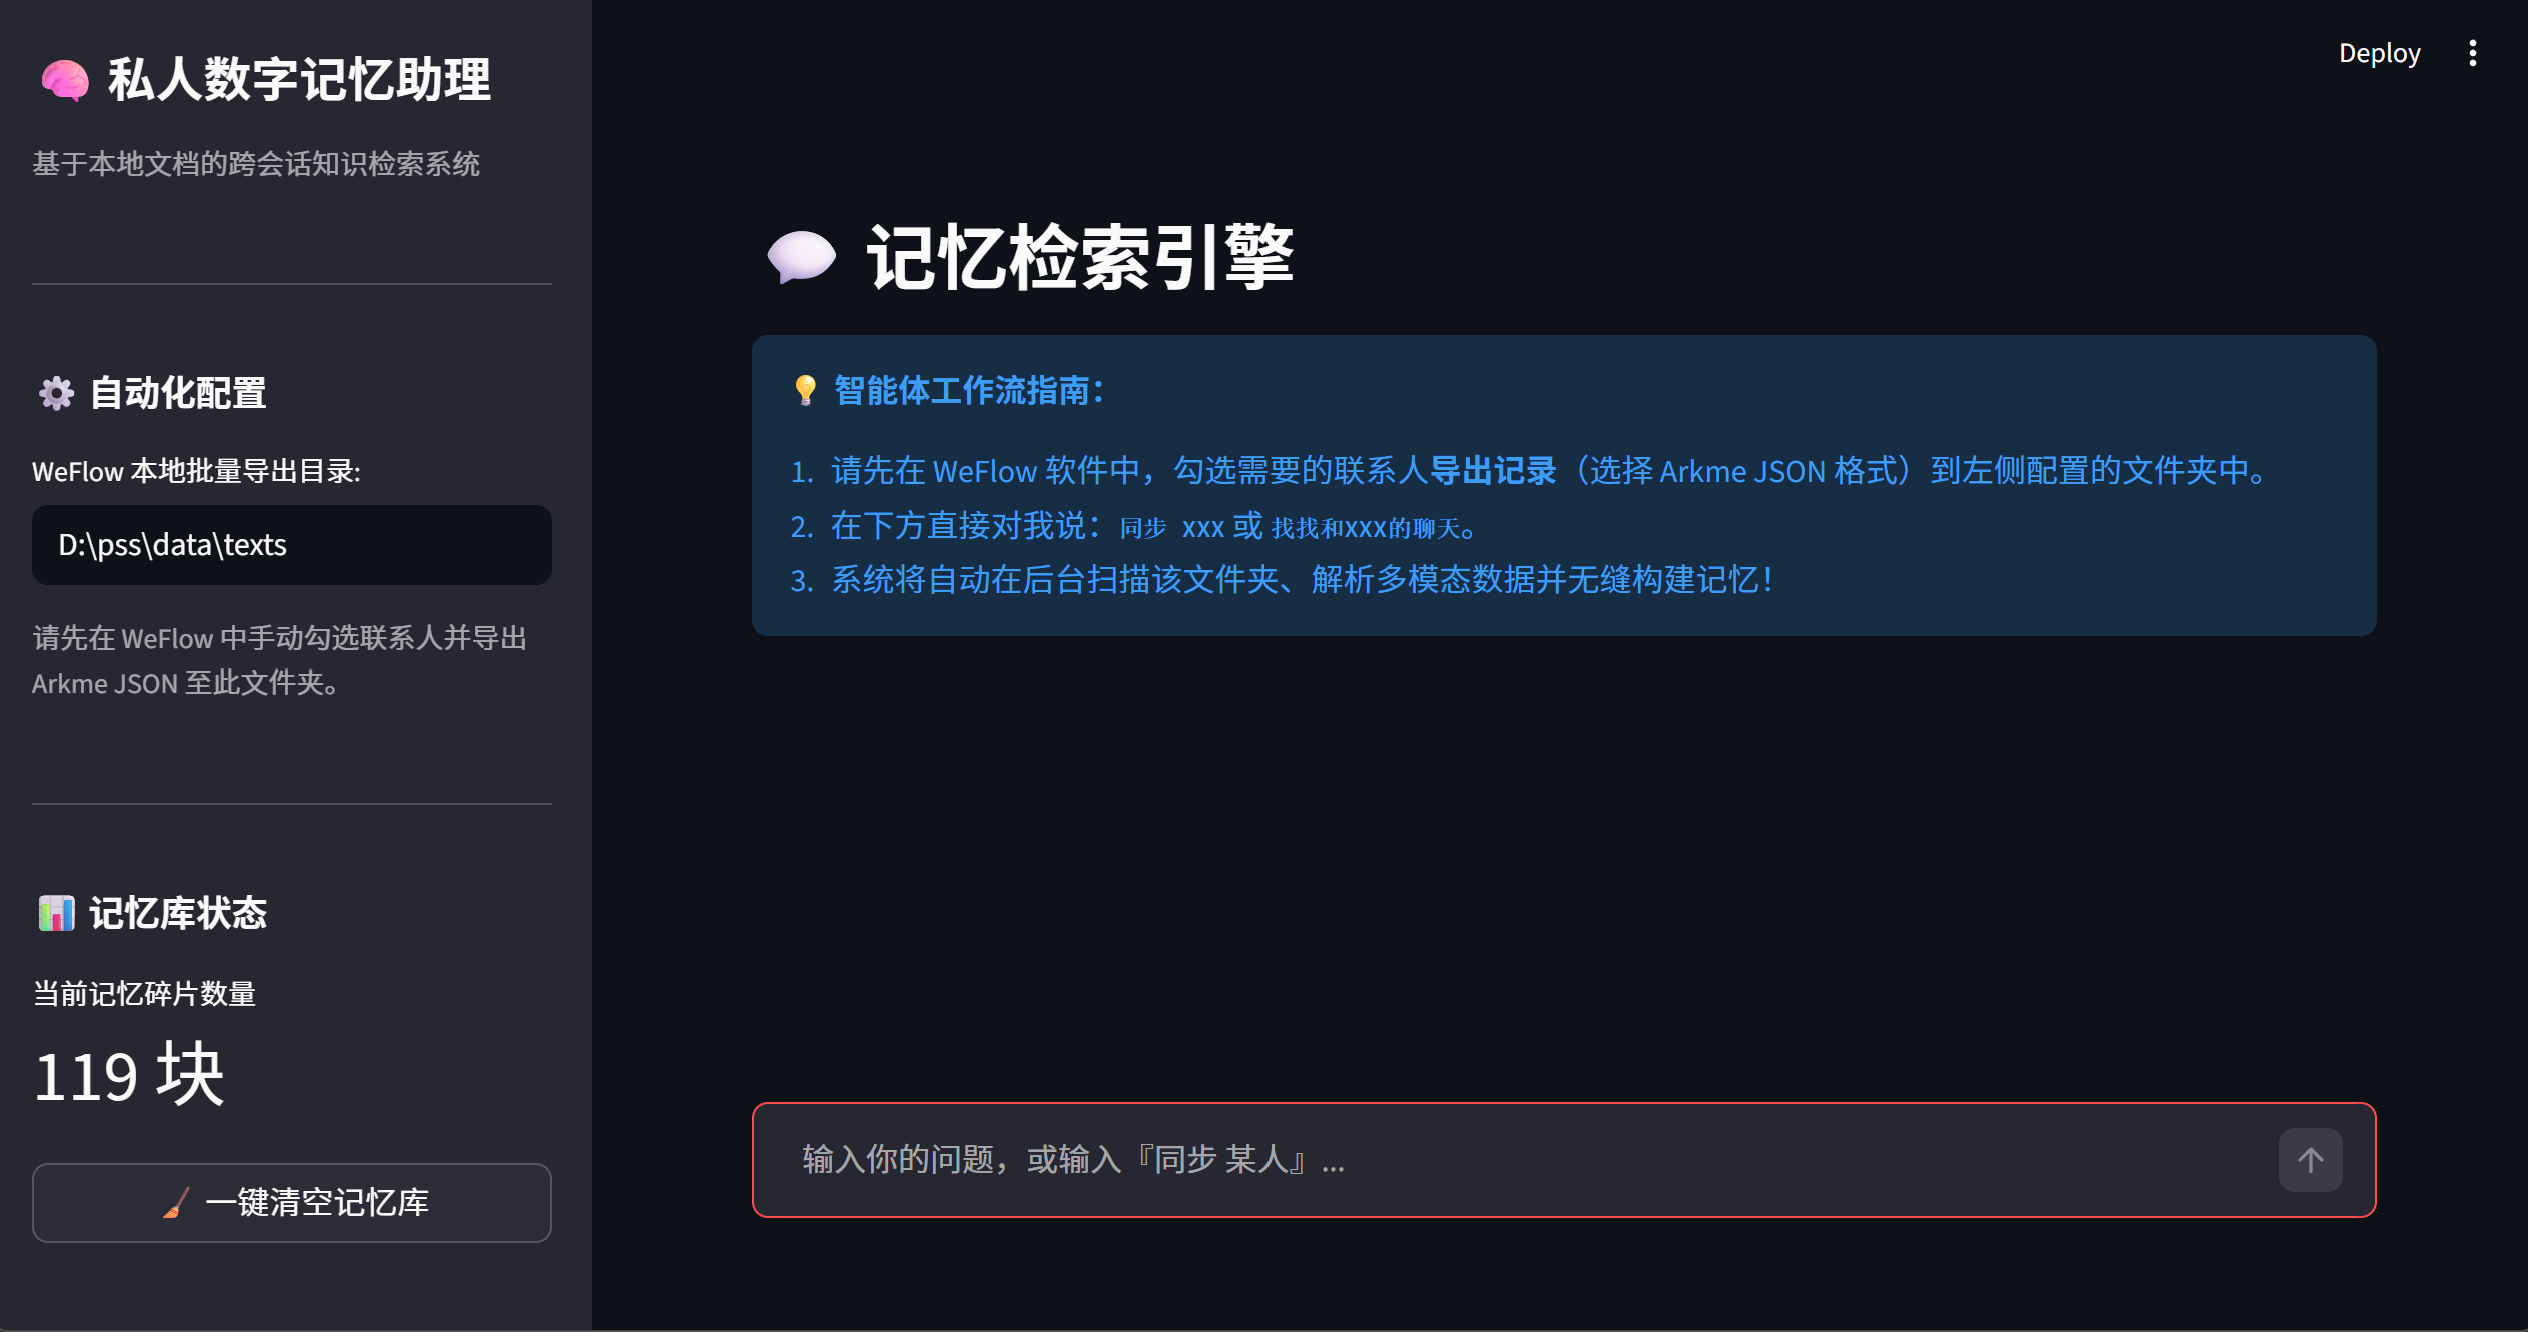
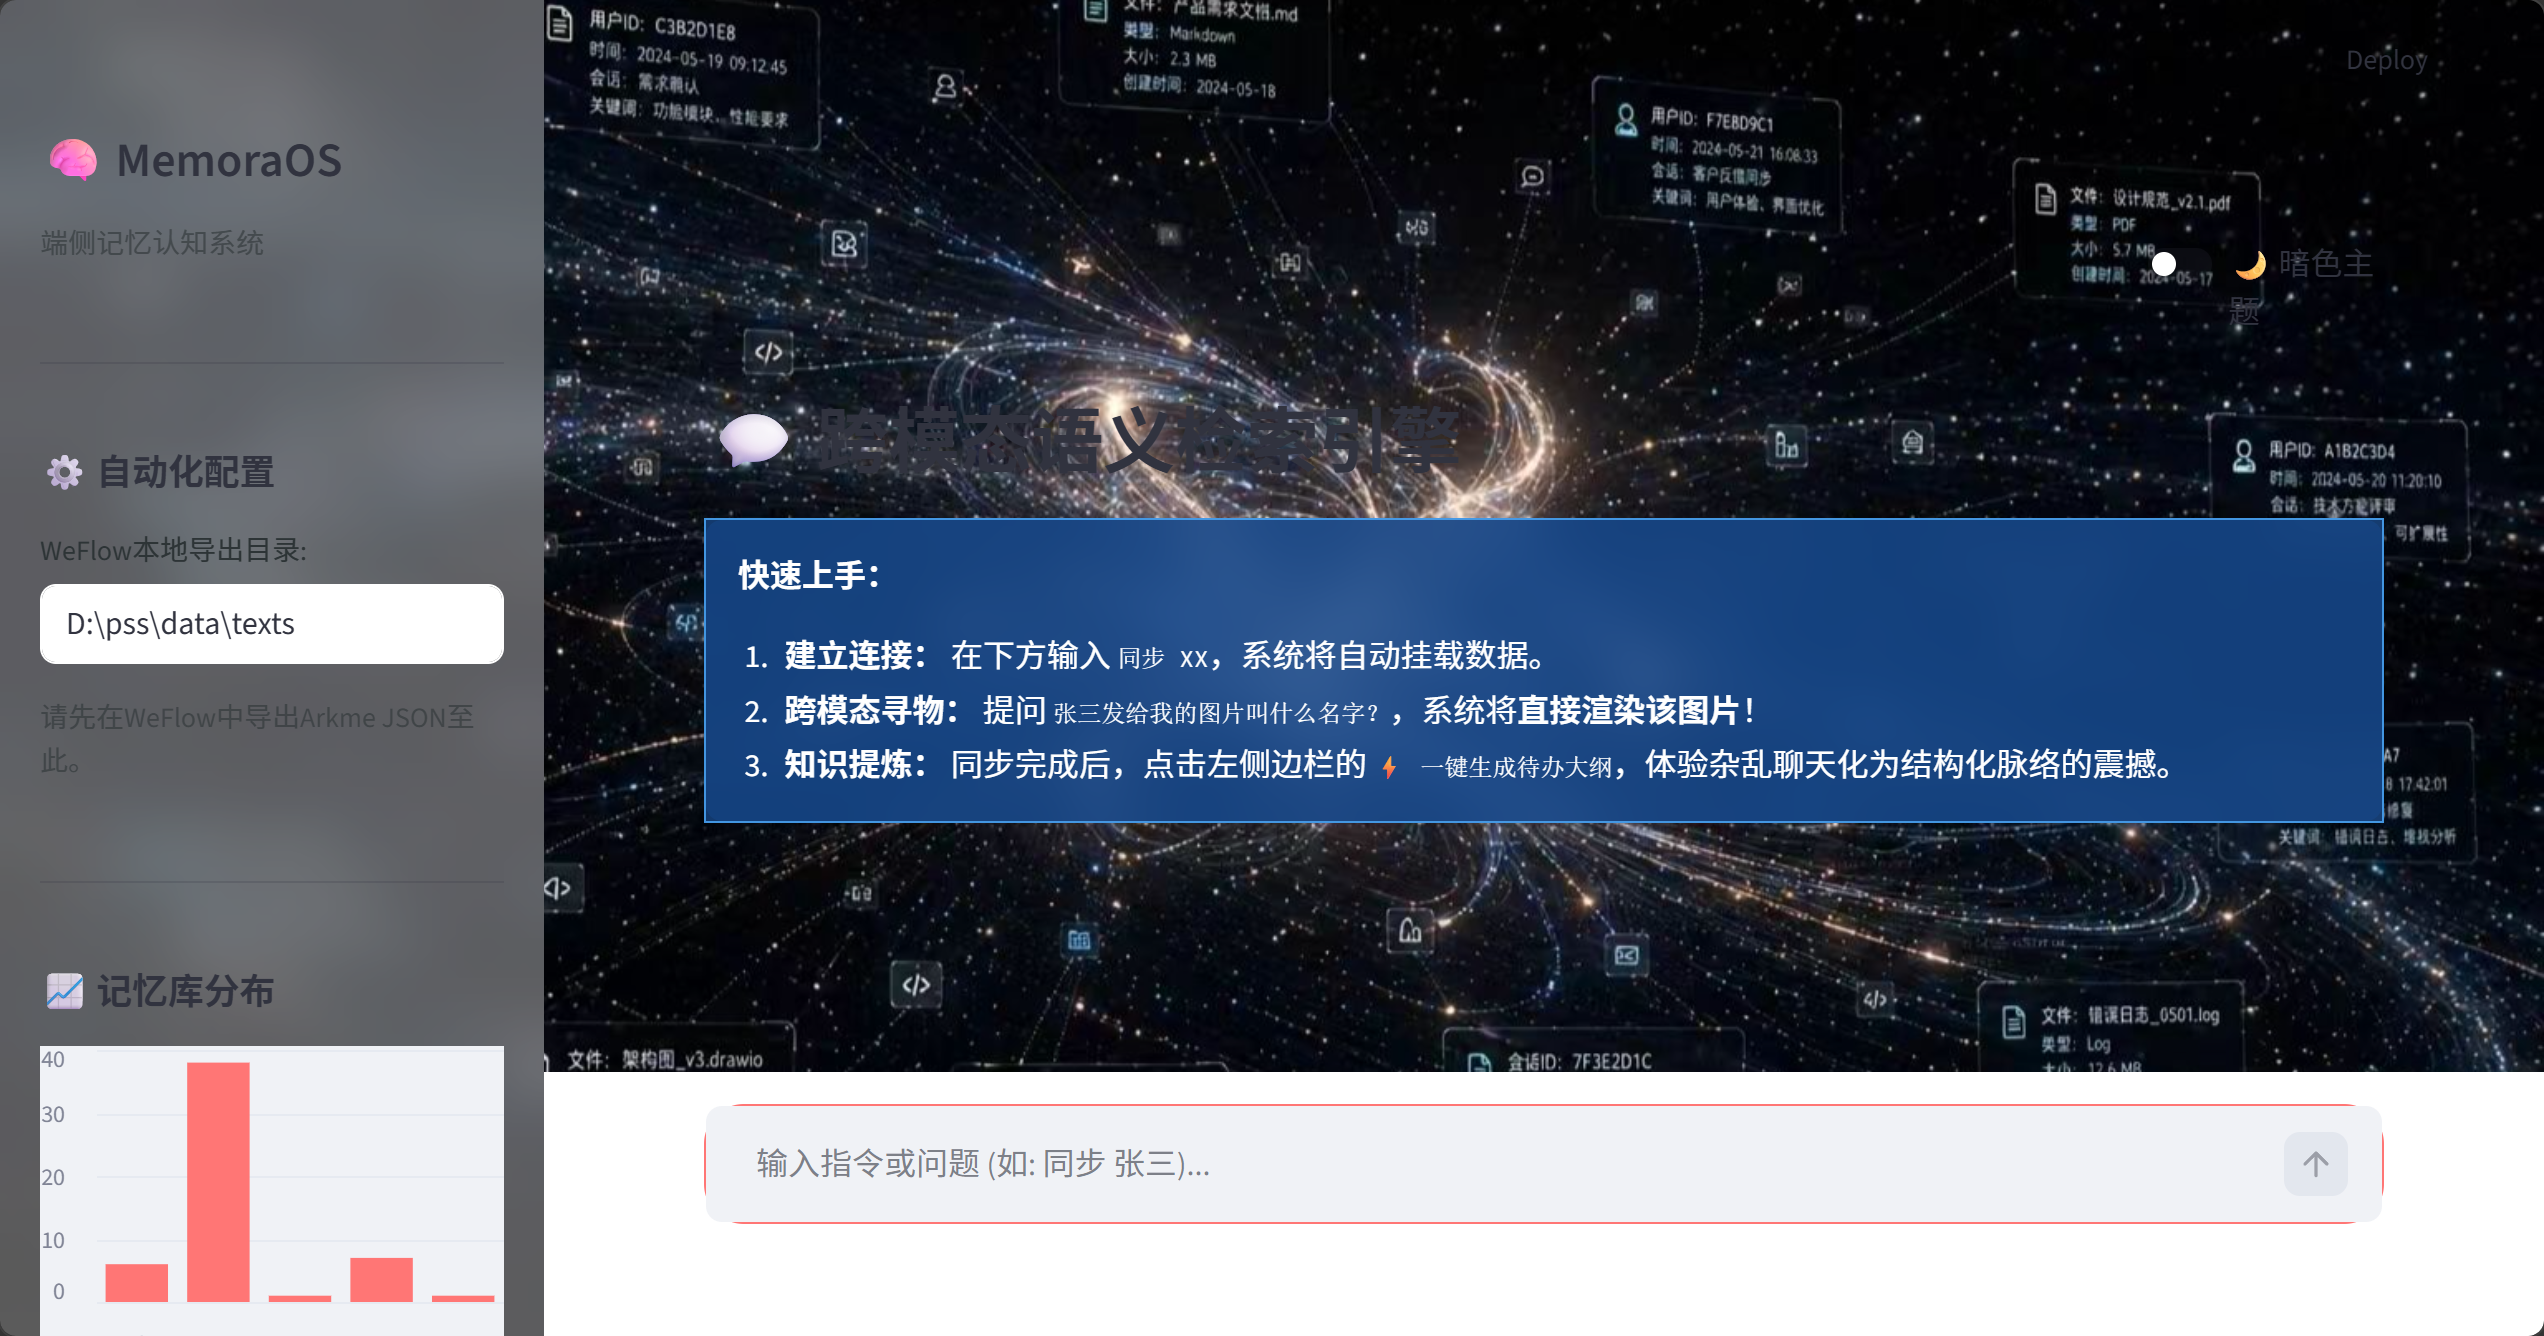
更新README、启动脚本

diff --git a/README.md b/README.md
@@ -1,105 +1,68 @@
-# 私人聊天记录搜索引擎
+<div align="center">
+  <img src="web/background.jpg" alt="MemoraOS Logo" width="200" style="border-radius: 20px;"/>
+  <h1>MemoraOS —— 端侧记忆认知系统</h1>
+  <p>面向法务取证、科研协作与个人数字资产的端侧 AI 审计中枢</p>
 
-基于端侧模型的隐私保护型个人IM记忆增强与智能检索系统
-
-支持：
-- WeFlow API 自动抓取聊天记录
-- 本地 JSON / CSV / DOCX 导入
-- 向量检索
-- Ollama 大模型问答
-- Web UI
-
-![img.png](index.png)
-![search.png](search.png)
----
-
-# 环境要求
-
-- Python 3.10
-- Ollama
-- Windows / Linux / Mac
+  [![Python](https://img.shields.io/badge/Python-3.10+-blue.svg)](https://www.python.org/)
+  [![Ollama](https://img.shields.io/badge/Ollama-Local_LLM-orange.svg)](https://ollama.com/)
+  [![License](https://img.shields.io/badge/License-MIT-green.svg)](LICENSE)
+</div>
 
 ---
 
-# 安装
+## 💡 项目背景与理念
 
-克隆仓库
+在数字化时代，个人与商业机密高度集中于即时通讯软件与本地文档中。传统的云端 AI 知识库（如 ChatGPT、Notion AI）要求用户全量上传隐私数据，存在严重的数据泄露与合规风险。
 
+**MemoraOS** 从“数据主权应归于个人”的核心价值观出发，构建了一套**可断网运行、100%本地计算**的 RAG（检索增强生成）操作系统。通过搭载端侧轻量级大模型（如 Qwen2.5:7b），旨在打破异构数据的格式孤岛，将杂乱的聊天记录化为结构化的知识脉络。
+
+## ✨ 核心亮点 (Core Features)
+
+- 🛡 **绝对的数据主权**：向量嵌入（BGE-m3）、数据库检索（ChromaDB）与大模型推理全链路本地运行，零数据外泄。
+- ⏳ **动态时序防破碎聚类**：引入基于消息时间差（Δt）的动态上下文切片算法，保全多轮对话、问答、协商的逻辑因果链。
+- 👁🗨 **跨模态降维锚定定位**：无需高昂的视觉算力，通过绝对路径标签化，实现“自然语言提问 -> 操作系统级图片/文件秒级定位与渲染”。
+- 🧠 **实体隔离思维链 (Entity-Isolated CoT)**：通过底层强约束提示词，解决轻量级端侧模型在处理多人长对话时极易发生的“角色混淆”与“指代张冠李戴”问题。
+- 📊 **FaaS 场景化模板驱动**：一键将闲聊记录萃取为《法务审前事实梳理（时间轴）》、《科研项目待办脉络》等 Markdown 结构化报告。
+
+## 📸 系统预览
+![index.png](index.png)
+
+|                   跨模态图片渲染                    |             AI 思维链透明展示 & 结构化知识萃取             |
+|:--------------------------------------------:|:--------------------------------------------:|
+| <img src="search.png" width="400" alt="主界面"> | <img src="sort.png" width="400" alt="检索与萃取"> |
+
+## 🚀 快速开始
+
+### 1. 环境准备
+- 操作系统：Windows 10/11 
+- 基础环境：[Python 3.10+](https://www.python.org/) 
+- 本地模型引擎：下载并安装 [Ollama](https://ollama.com/)
+
+### 2. 获取源码
+```bash
 git clone https://github.com/iug-cy/pss.git
-
 cd pss
-
-运行安装脚本
-
-setup.bat
-
----
-
-# 运行
-
-CLI
-
-run_cli.bat
-
-Web UI
-
-run_web.bat
-
----
-
-# 首次启动
-
-程序会自动：
-
-下载 embedding 模型 (bge-m3)
-
-初始化向量数据库
-
----
-
-
-# 使用示例
-
-导入聊天记录
-
-```
-import 私聊_张三.json
 ```
 
-API导入
+### 3. 一键部署环境 (Windows)
+双击运行根目录下的 deploy.bat。脚本将自动：
+- 创建独立的 Python 虚拟环境
+- 极速拉取国内镜像源依赖 (requirements.txt)
+- 自动下载 BAAI/bge-m3 Embedding模型到本地
+
+### 4. 唤醒系统
+双击运行 run_server.bat（或使用 MemoryOS.vbs 静默启动后台）。
+系统将自动初始化多源异构转换引擎，并在浏览器 http://localhost:8501 启动极客交互面板。
+
+## 🛠 技术架构
 
 ```
-api wxid_xxxxx
-```
-
-问问题
-
-```
-张三上次给我发的安装包叫什么
-```
-
----
-
-# 项目结构
-
-```
-pss
-│
-├─ core
-│   ├─ rag_core.py
-│   ├─ process.py
-│   ├─ weflow_client.py
-│
-├─ web
-│   └─ app.py
-│
-├─ chroma_db
-├─ temp
-├─ data
-│
-├─ main.py
-├─ config.py
-└─ bootstrap.py
+MemoraOS
+├── 数据接入层 : WeFlow API 适配器 / 本地 JSON/DOCX 解析器
+├── 向量基建层 : ChromaDB + BAAI/bge-m3 Embedding
+├── 认知中枢层 : NLP 时间意图解构 + 双轨混合检索
+├── 逻辑生成层 : Ollama (Qwen2.5) + Entity-Isolated CoT 约束
+└── 交互表现层 : Streamlit 响应式 Web 大屏
 ```
 
 ---
